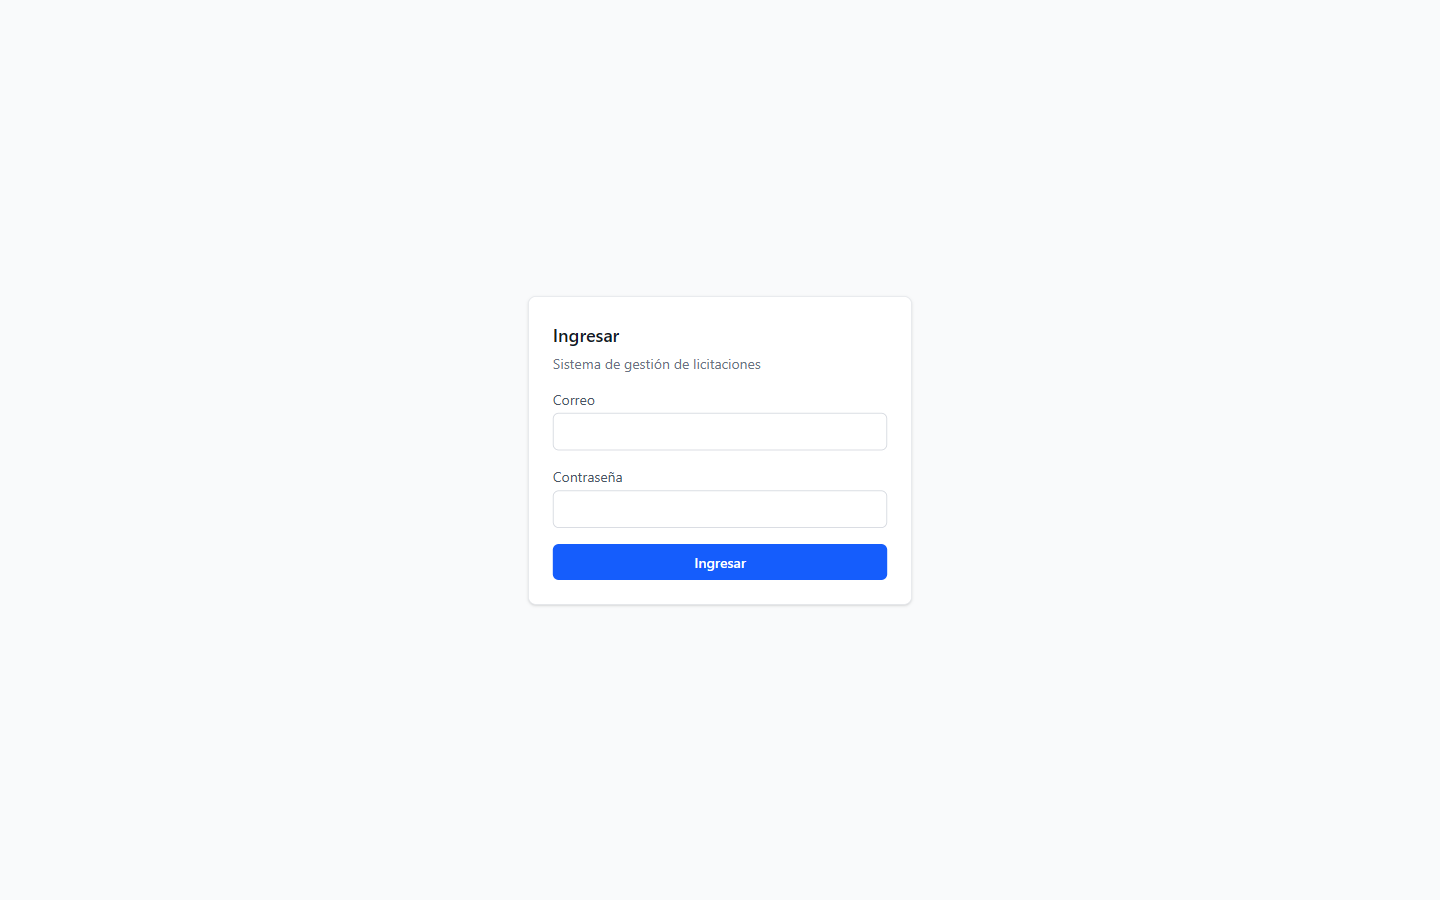
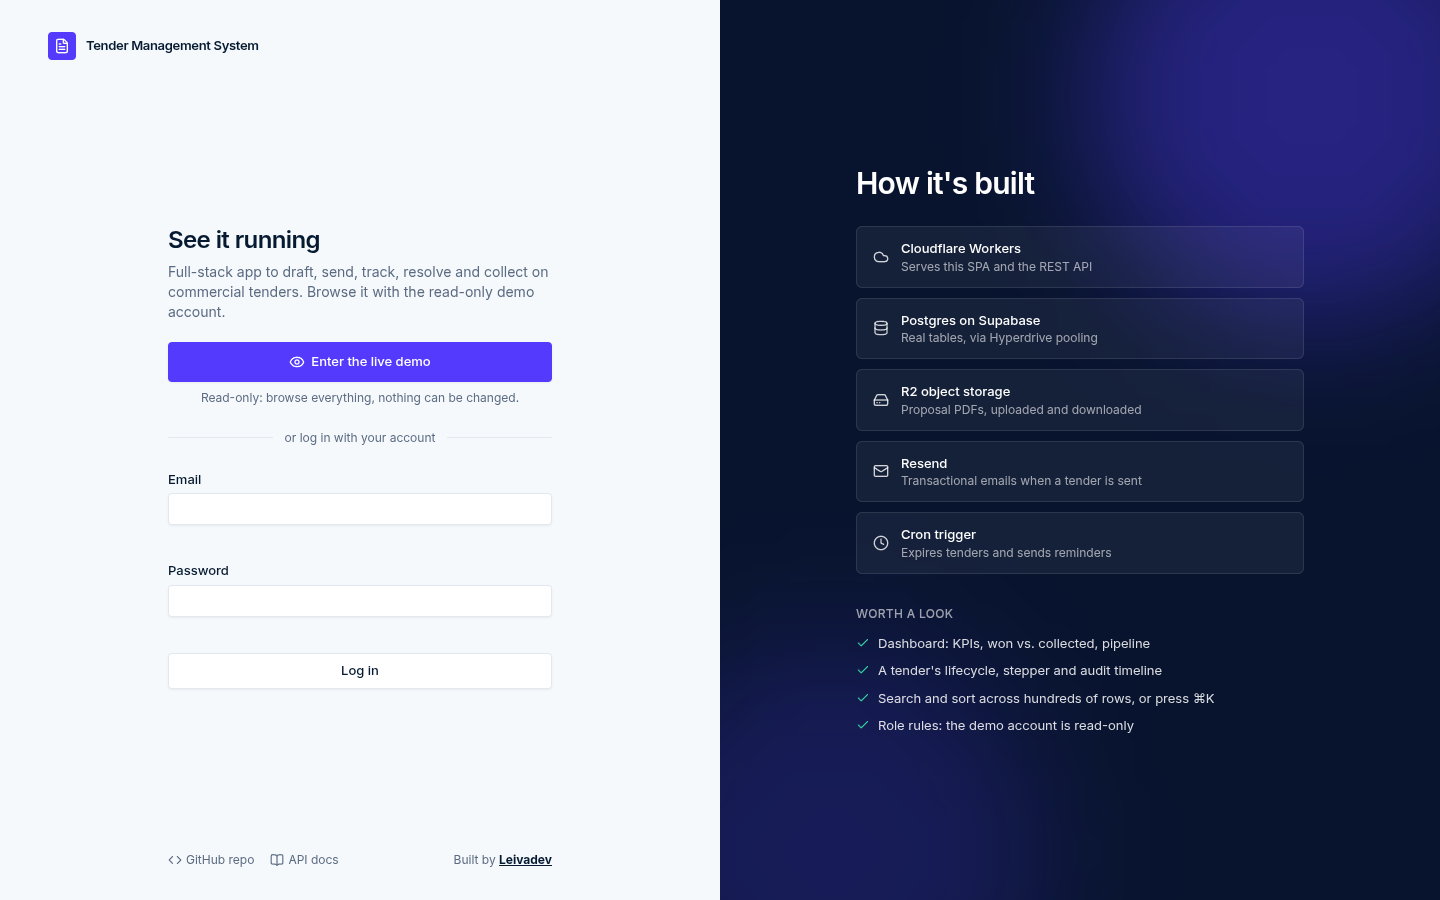
docs: refresh screenshots and demo instructions
Retake screenshots with the redesigned UI (adds command palette and
login). Document the one-click demo button, Cmd/Ctrl+K and the
seed-demo script, and update the project structure listing.

diff --git a/README.md b/README.md
@@ -20,7 +20,7 @@ Full-stack app to draft, send, track, resolve and collect on commercial tenders 
 | **Email** | `demo@leivadev.com` |
 | **Password** | `Demo-Tenders-2026` |
 
-The demo account has the read-only `viewer` role, so you can browse every screen but not change data.
+The login page has an "Enter the live demo" button that signs in with this account in one click. It has the read-only `viewer` role, so you can browse every screen but not change data: write actions are disabled with a tooltip explaining why. Press `⌘K` / `Ctrl+K` anywhere to search tenders and clients or jump to a page (`g` then `d`/`t`/`c`/`p` also navigates).
 
 ![Dashboard](docs/screenshots/dashboard.png)
 
@@ -28,6 +28,7 @@ The demo account has the read-only `viewer` role, so you can browse every screen
 |---|---|
 | ![Tenders list](docs/screenshots/tenders-list.png) | ![Products](docs/screenshots/tender-products.png) |
 | ![Payments](docs/screenshots/tender-payments.png) | ![History](docs/screenshots/tender-history.png) |
+| ![Command palette](docs/screenshots/command-palette.png) | ![Login](docs/screenshots/login.png) |
 
 ## Design decisions
 
@@ -54,8 +55,8 @@ src/
 └── lib/                  # HTTP errors, dates
 
 client/                   # SPA (Vite + React + TS), served by the Worker
-tests/                    # E2E: api.test.ts, cron.test.ts
-scripts/                  # create-admin.mjs, seed-mock.mjs
+tests/                    # E2E suite (api, cron, dashboard, search, pagination, ...)
+scripts/                  # create-admin.mjs, seed-demo.mjs, seed-mock.mjs
 ```
 
 ## Getting started
@@ -107,7 +108,16 @@ node scripts/create-admin.mjs admin@example.com "YourStrongPassword123!"
 node scripts/create-admin.mjs demo@example.com "DemoPassword123!" viewer
 ```
 
-For demo data, `node scripts/seed-mock.mjs --confirm` wipes clients, products, tenders and payments and repopulates them with sample records (users are untouched).
+For demo data, `scripts/seed-demo.mjs` creates 48 tenders spread over the last six months (every status, history rows, partial and full payments), so the dashboard charts and activity feed have something to show. `DATABASE_URL` must be passed explicitly; do not reuse the production one from `.env` without meaning to.
+
+```bash
+# adds whatever is missing, never deletes; running it twice changes nothing
+DATABASE_URL=postgresql://postgres:postgres@127.0.0.1:54322/postgres node scripts/seed-demo.mjs --confirm
+# local only: wipe all business data first (refused on non-local hosts)
+DATABASE_URL=postgresql://postgres:postgres@127.0.0.1:54322/postgres node scripts/seed-demo.mjs --confirm --fresh
+```
+
+The older `node scripts/seed-mock.mjs --confirm` wipes clients, products, tenders and payments and repopulates them with a smaller sample (users are untouched).
 
 ### 6. Cloudflare: R2 and Hyperdrive
 
